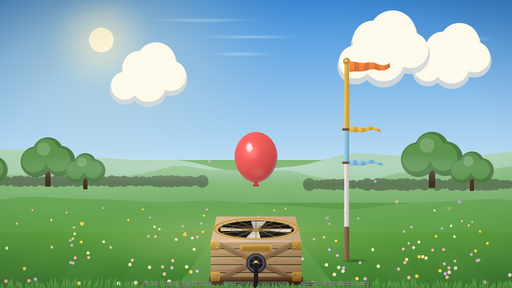
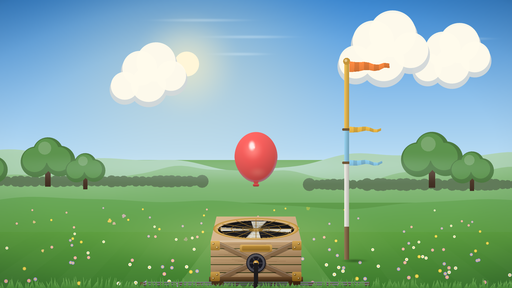
Keepy Uppy (#77): the lighthouse and suns clear of the HUD, soft rain edges

diff --git a/games/games/keepy_uppy/GFX_POLISH.md b/games/games/keepy_uppy/GFX_POLISH.md
@@ -64,4 +64,7 @@ the grille or a HUD panel), that playing redraws nothing, and that a new place b
 - The rain cloud was too big and sat under the HUD's status widget: smaller (340 px), lower
   (y 380), sailing in from the right at the balloon's height.
 - The pop's shards were specks: twice the size.
+- The lighthouse's top and the meadow's, seaside's and park's suns sat behind HUD panels: the
+  tower is shorter, and each sun moved clear of the ride panel, the clock and Pause.
+- The rain's rect showed hard sides: its streaks and haze fade out toward both edges.
 - The bird used to fly in at the ride panel's height: it now comes in low from the left.
